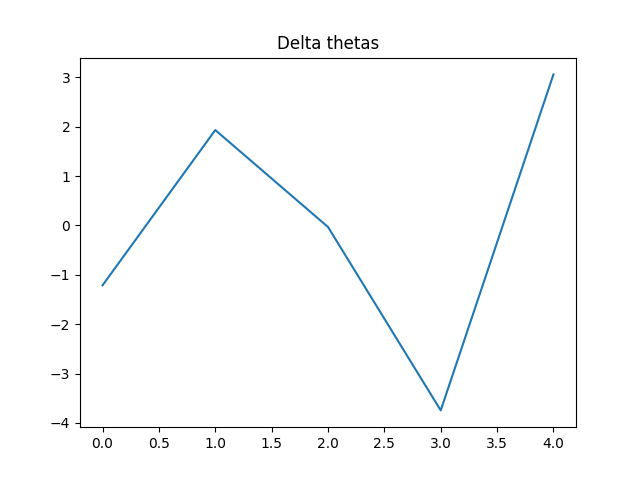
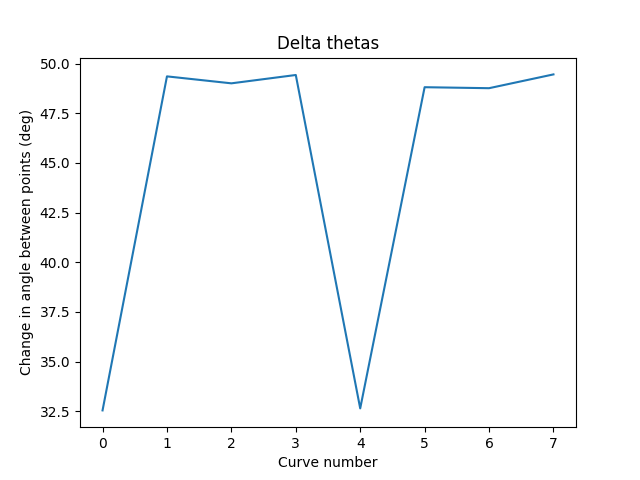
added contourlib, refactored out of main

diff --git a/main.py b/main.py
@@ -7,6 +7,7 @@ from glaze import read_json, render
 import matplotlib.pyplot as plt
 from math import isclose
 import argparse
+import contourlib
 
 UPPERCASES = list("ABCDEFGHIJKLMNOPQRSTUVWXYZ")
 LOWERCASES = [character.lower() for character in UPPERCASES]
@@ -54,14 +55,6 @@ def render_curve(curve, curve_name = "test"):
         plt.savefig(os.path.join("outputs", file_name))  
     plt.close()  
 
-def get_contour_length(contour):
-    length = 0
-    transposed_contour = np.transpose(contour, axes=(0, 2, 1)).astype(np.float64)
-    for curve in transposed_contour:
-        curve = bezier.Curve(curve, degree=2)
-        length += curve.length
-    return length
-
 def make_output_dirs():
     output_types = ["raw", "raw-straight-line", "fixed-straight-line"]
     for output_type in output_types:
@@ -73,30 +66,6 @@ def create_gaussian_noise(off_point, scale=0.05):
     noise = np.random.normal(scale=scale, size=2)
     noisy_point = [off_point[0] + noise[0], off_point[1] + noise[1]]
     return noisy_point
-
-def get_angle_changes(contour):
-    # return a list of angle changes between each bezier curve.
-    angles = []
-    for curve in contour:
-        delta_x = curve[2][0] - curve[0][0]
-        delta_y = curve[2][1] - curve[0][1]
-        theta = np.arctan2(delta_y, delta_x)
-        angles.append(theta)
-
-    delta_angles = [angles[i] - angles[i - 1] for i in range(0, len(angles))]
-    plt.figure()
-    plt.plot(range(len(angles)), angles)
-    plt.title("Thetas")
-    plt.xlabel("Curve number")
-    plt.ylabel("Angle between points (rad)")
-    plt.savefig("thetas.png")
-    plt.figure()
-    plt.plot(range(len(delta_angles)), delta_angles)
-    plt.title("Delta thetas")
-    plt.ylabel("Change in angle between points (rad)")
-    plt.xlabel("Curve number")
-    plt.savefig("deltathetas.png")
-    return delta_angles
 
 class Glyph:
     def __init__(self, font_name, char_name):
@@ -149,23 +118,22 @@ class Glyph:
         plt.close()
 
     def generate_contour_distribution(self, contour):
-        angle_changes = get_angle_changes(contour)
+        angle_changes = contourlib.get_angle_changes(contour)
         normalized_angle_changes = angle_changes/max(angle_changes)
 
-    def render_fixed_num_bezier(self, num_points = 20):
+    def render_fixed_num_bezier(self, num_points):
         for contour in self.contours:
             self.generate_contour_distribution(contour)
-    
-    def render_fixed_num_distance_bezier(self, num_points = 20):
-        fixed_num_contours = []
 
+    def make_fixed_num_point_contour(self, num_points):
+        fixed_num_contours = []
         for contour in self.contours:
 
             fixed_num_contour = []
             start_points = []
             end_points = []
 
-            contour_len = get_contour_length(contour)
+            contour_len = contourlib.get_contour_length(contour)
             dist_per_point = contour_len/(num_points)
             loc = 0
             len_sum = 0
@@ -198,7 +166,10 @@ class Glyph:
                 curve = [start_point, off_point, end_point]
                 fixed_num_contour.append(curve)
             fixed_num_contours.append(np.array(fixed_num_contour))
-
+        return fixed_num_contours
+    
+    def render_fixed_num_distance_bezier(self, num_points):
+        fixed_num_contours = self.make_fixed_num_point_contour(num_points)
         plt.figure()
         render(fixed_num_contours)
         for output_format in OUTPUT_FORMATS:

diff --git a/contourlib/contourlib.py b/contourlib/contourlib.py
@@ -1,0 +1,51 @@
+import numpy as np
+import bezier
+import matplotlib.pyplot as plt
+
+def get_contour_length(contour):
+    length = 0
+    transposed_contour = np.transpose(contour, axes=(0, 2, 1)).astype(np.float64)
+    for curve in transposed_contour:
+        curve = bezier.Curve(curve, degree=2)
+        length += curve.length
+    return length
+
+
+def get_angle_changes(contour):
+    # return a list of angle changes between each bezier curve.
+    angles = []
+    delta_angles = []
+    for curve in contour:
+        delta_x = curve[2][0] - curve[0][0]
+        delta_y = curve[2][1] - curve[0][1]
+        theta = np.arctan2(delta_y, delta_x)
+        angles.append(theta)
+
+    delta_angles = [angles[i] - angles[i - 1] for i in range(0, len(angles))]
+    filtered_delta_angles = remove_angle_changes_above_threshold(delta_angles)
+    plot_angle_changes(angles, filtered_delta_angles)
+
+    return filtered_delta_angles
+
+def remove_angle_changes_above_threshold(delta_angles, threshold = 1.5*np.pi):
+    for i in range(len(delta_angles)):
+        if delta_angles[i] > threshold:
+            delta_angles[i] = delta_angles[i] - 2*np.pi
+        if delta_angles[i] < -1*threshold:
+            delta_angles[i] = delta_angles[i] + 2*np.pi
+    return delta_angles
+
+def plot_angle_changes(angles, delta_angles):
+    plt.figure()
+    plt.plot(range(len(angles)), [angle*(180/np.pi) for angle in angles])
+    plt.title("Thetas")
+    plt.xlabel("Curve number")
+    plt.ylabel("Angle between points (deg)")
+    plt.savefig("thetas.png")
+    plt.figure()
+    plt.plot(range(len(delta_angles)), [delta_angle*(180/np.pi) for delta_angle in delta_angles])
+    plt.title("Delta thetas")
+    plt.ylabel("Change in angle between points (deg)")
+    plt.xlabel("Curve number")
+    plt.savefig("deltathetas.png")
+    plt.show()

diff --git a/contourlib/__init__.py b/contourlib/__init__.py
@@ -1,0 +1,1 @@
+from .contourlib import *
